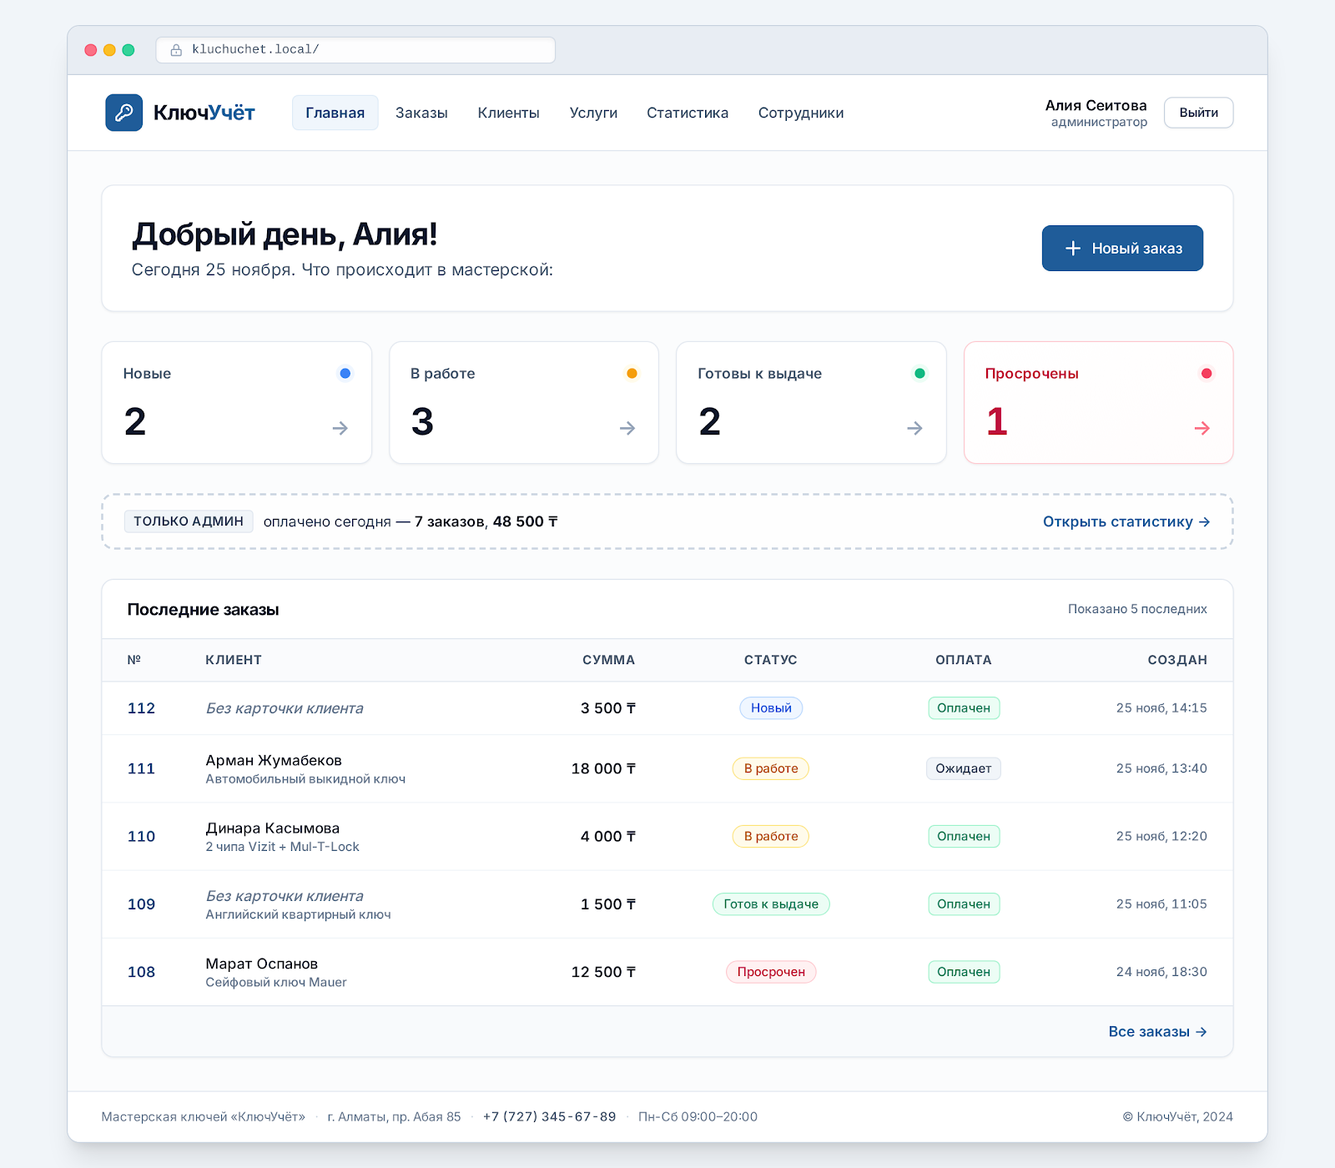
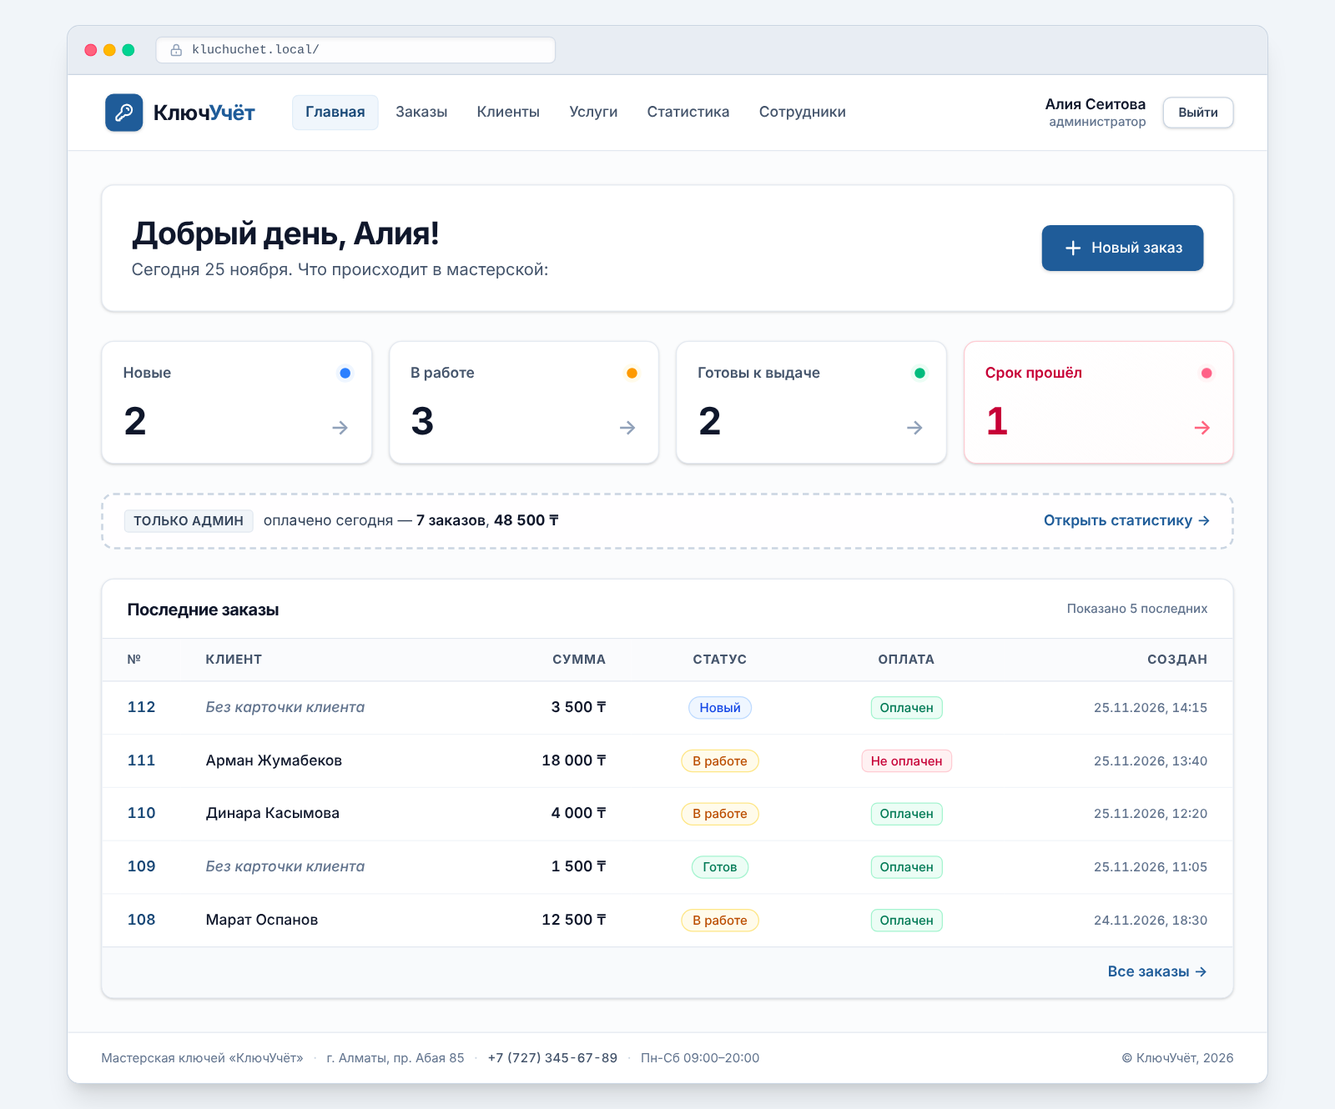
design: fix screens per checklist, add rework API and screen
- screens: "Просрочен" is not a status (mark "срок прошёл" + counter), payment only Оплачен/Не оплачен, due date is date only, one date format and 2026 year, no extra metrics or English text
- add screen and wireframe 06 (rework dialog) and button on order card
- architecture.md: POST /api/orders/:id/rework, US-16
- design.md, README updated

Claude-Session: https://claude.ai/code/session_01LYx9XDw7J7b9mwqPre7aFx

diff --git a/docs/architecture.md b/docs/architecture.md
@@ -139,6 +139,7 @@
 | `US-13` | Администратор | Как администратор, я хочу видеть количество заказов, выручку и статусы за период, чтобы контролировать работу мастерской. | ✅ |
 | `US-14` | Администратор | Как администратор, я хочу учитывать заготовки ключей, чтобы знать остатки материалов. | ⏳ |
 | `US-15` | Сотрудник | Как сотрудник, я хочу уведомлять клиента о готовом заказе, чтобы ускорить выдачу. | ⏳ |
+| `US-16` | Сотрудник | Как сотрудник, я хочу оформить переделку по готовому или выданному заказу, чтобы бесплатно исправить работу, не меняя старый заказ. | ✅ |
 
 **Почему так:** истории имеют ID, поэтому можно связать каждый API-запрос и страницу с конкретной задачей, а затем проверять готовность диплома по списку, а не «на глаз».
 
@@ -205,7 +206,7 @@ stateDiagram-v2
 | `BR-22` | Даты, статус, оплату, цену и доступность услуги сервер проверяет непосредственно при записи, в транзакции. | Между открытием формы и сохранением другой сотрудник мог изменить данные. |
 | `BR-23` | `dueDate` — необязательный срок готовности. Если срок указан и текущая дата мастерской позже даты `dueDate`, а заказ ещё не `ISSUED`/`CANCELLED`, интерфейс отмечает заказ как просроченный. | Сотрудник сразу видит заказы, срок которых прошёл. |
 | `BR-24` | `assigneeId` — необязательный исполнитель заказа (ссылка на активного сотрудника). `createdById` остаётся автором оформления и не заменяет исполнителя. Если мастер в мастерской один, исполнителя можно не указывать. | Видно, кто принял заказ и кто отвечает за выполнение. |
-| `BR-25` | Переделка оформляется отдельным новым заказом с `totalAmount=0`, нулевой ценой позиций и комментарием `Переделка по заказу №…`. Исходный заказ не изменяется. | Сохраняется история первоначального заказа и бесплатной переделки. |
+| `BR-25` | Переделка оформляется отдельным новым заказом с `totalAmount=0`, нулевой ценой позиций и комментарием `Переделка по заказу №…`. Оформить её можно по заказу в статусе `READY` или `ISSUED`; оплата нового заказа сразу `PAID`, так как сумма равна 0. Исходный заказ не изменяется. | Сохраняется история первоначального заказа и бесплатной переделки. |
 | `BR-26` | Отменить заказ из `READY` может только `ADMIN`; причина отмены обязательна и сохраняется в событии журнала. Заказы в `NEW` и `IN_PROGRESS` отменяются сотрудником или администратором по обычным правилам. | Готовая работа и потраченная заготовка не списываются без контроля администратора. |
 
 **Правило быстрого заказа:** `clientId=null` — полностью корректное значение. Заказ без карточки клиента участвует в списке, статусах, журнале и статистике. Интерфейс показывает «Без карточки клиента», а не выдумывает имя или телефон. Поиск по данным клиента для него недоступен, пока сотрудник не привяжет клиента.
@@ -497,6 +498,7 @@ erDiagram
 | `GET` | `/api/orders/:id` | Карточка заказа | Оба | US-08 |
 | `PATCH` | `/api/orders/:id` | Исправить состав/клиента допустимого заказа | Оба | US-09 |
 | `POST` | `/api/orders/:id/status` | Перевести заказ в следующий разрешённый статус | Оба | US-10 |
+| `POST` | `/api/orders/:id/rework` | Оформить переделку отдельным заказом | Оба | US-16 |
 | `POST` | `/api/orders/:id/payment` | Отметить оплату/разрешённое исправление | С, А* | US-12 |
 | `GET` | `/api/orders/:id/events` | История действий с заказом | Оба | US-11 |
 | `GET` | `/api/stats/overview` | Количество заказов, выручка, разбивка по статусам | А | US-13 |
@@ -525,7 +527,7 @@ erDiagram
 | `401 Unauthorized` | Нет действительного входа |
 | `403 Forbidden` | Вошёл, но роль не имеет права на действие |
 | `404 Not Found` | Запись отсутствует |
-| `409 Conflict` | Повтор логина, запрещённый переход, попытка выдать неоплаченный заказ, изменение уже оплаченного заказа |
+| `409 Conflict` | Повтор логина, запрещённый переход, попытка выдать неоплаченный заказ, изменение уже оплаченного заказа, переделка не по готовому/выданному заказу |
 | `429 Too Many Requests` | Слишком много попыток входа |
 | `500 Internal Server Error` | Непредвиденная ошибка; детали скрыты от клиента |
 
@@ -737,9 +739,28 @@ erDiagram
 
 **Отмена готового заказа:** `POST /api/orders/105/status` с телом `{"status":"CANCELLED","reason":"Клиент отказался от заказа"}`. Запрос доступен только администратору; без причины сервер возвращает `400`, сотруднику — `403`. Причина сохраняется в `Order.cancelReason` и `OrderEvent.comment`.
 
-**Переделка:** `POST /api/orders/105/rework` создаёт отдельный заказ на основе исходного. Сервер копирует позиции исходного заказа, устанавливает каждой `unitPriceSnapshot=0`, `totalAmount=0` и сохраняет комментарий `Переделка по заказу № 105`. Для такого заказа сервер не использует обычные цены каталога. Исходный заказ остаётся без изменений.
+**18) `POST /api/orders/105/rework`** — US-16, оба. Запрос (заказ № 105 в статусе `READY`; причина необязательна):
 
-**18) `POST /api/orders/105/payment`** — US-12, С/А. Запрос (заказ в работе):
+```json
+{"reason":"Ключ не подошёл к замку, нужно подточить"}
+```
+
+Ответ `201`:
+
+```json
+{"id":106,"status":"NEW","paymentStatus":"PAID","totalAmount":0,"comment":"Переделка по заказу № 105: Ключ не подошёл к замку, нужно подточить"}
+```
+
+Сервер копирует позиции заказа № 105, ставит каждой `unitPriceSnapshot=0` и `totalAmount=0` (BR-08, BR-25). Новый заказ создаётся со статусом `NEW` и тем же клиентом, срок и исполнитель не заполняются. Платить нечего, поэтому оплата сразу `PAID`, и такой заказ можно выдать без отдельной отметки; выручка не меняется, так как сумма равна 0. Исходный заказ № 105 не изменяется, в его историю добавляется запись о переделке № 106. Если причина не указана, комментарий будет `Переделка по заказу № 105`.
+
+Ошибки: `404`, если заказа нет; `409` с кодом `REWORK_NOT_ALLOWED`, если исходный заказ не в статусе `READY` или `ISSUED` (в `NEW`, `IN_PROGRESS` и `CANCELLED` переделывать нечего):
+
+```json
+{"error":{"code":"REWORK_NOT_ALLOWED","message":"Переделку можно оформить только по готовому или выданному заказу"}}
+```
+
+
+**19) `POST /api/orders/105/payment`** — US-12, С/А. Запрос (заказ в работе):
 
 ```json
 {"paymentStatus":"PAID"}
@@ -755,7 +776,7 @@ erDiagram
 
 **Проверка выдачи:** даже у заказа в `READY` запрос `POST /api/orders/105/status` с `{"status":"ISSUED"}` возвращает `409` и `{"error":{"code":"ORDER_NOT_PAID","message":"Нельзя выдать заказ без оплаты"}}`, пока `paymentStatus=UNPAID`. После отметки `PAID` переход разрешён.
 
-**19) `GET /api/orders/105/events`** — US-11, оба. Запрос: без тела. Ответ `200` (новые события в хронологическом порядке):
+**20) `GET /api/orders/105/events`** — US-11, оба. Запрос: без тела. Ответ `200` (новые события в хронологическом порядке):
 
 ```json
 {"items":[{"id":901,"type":"CREATED","oldValue":null,"newValue":"NEW","actorId":2,"createdAt":"2026-11-17T09:30:00Z"},{"id":902,"type":"ORDER_UPDATED","oldValue":null,"newValue":null,"actorId":2,"comment":"Изменены позиции заказа","createdAt":"2026-11-17T10:00:00Z"},{"id":903,"type":"STATUS_CHANGED","oldValue":"NEW","newValue":"IN_PROGRESS","actorId":2,"createdAt":"2026-11-17T10:30:00Z"},{"id":904,"type":"PAYMENT_CHANGED","oldValue":"UNPAID","newValue":"PAID","actorId":2,"createdAt":"2026-11-17T11:15:00Z"}]}
@@ -763,7 +784,7 @@ erDiagram
 
 #### Статистика
 
-**20) `GET /api/stats/overview`** — US-13, А. Запрос: `GET /api/stats/overview?from=2026-11-01&to=2026-11-30`. Ответ `200`:
+**21) `GET /api/stats/overview`** — US-13, А. Запрос: `GET /api/stats/overview?from=2026-11-01&to=2026-11-30`. Ответ `200`:
 
 ```json
 {"period":{"from":"2026-11-01","to":"2026-11-30","timezone":"Asia/Almaty"},"ordersCreated":32,"paidOrders":24,"revenuePaid":76000,"byStatus":{"NEW":4,"IN_PROGRESS":5,"READY":7,"ISSUED":14,"CANCELLED":2}}
@@ -794,7 +815,7 @@ erDiagram
 | `/` | Оба | Рабочая сводка: новые, в работе, готовы; для А — переход к финансовой статистике | Перейти в заказы, создать заказ | `/orders`, `/orders/new`, `/stats` (А) |
 | `/orders` | Оба | Таблица заказов: №, клиент или «Без карточки клиента», сумма, статус, оплата, дата | Искать, фильтровать, открыть, создать | `/orders/new`, `/orders/:id` |
 | `/orders/new` | Оба | Выбор клиента **или режим «Быстрый заказ без клиента»**, каталог услуг, количество, предварительный итог | Создать заказ с `clientId` или без него | `/clients`, `/orders/:id` |
-| `/orders/:id` | Оба | Клиент **или его отсутствие**, позиции, сумма, статус, оплата, автор, история | Сменить статус; **кнопка «Выдать» активна только после оплаты**; открыть редактирование | `/orders/:id/edit`, `/clients/:id` (если есть клиент), `/orders` |
+| `/orders/:id` | Оба | Клиент **или его отсутствие**, позиции, сумма, статус, оплата, автор, история | Сменить статус; **кнопка «Выдать» активна только после оплаты**; открыть редактирование; **«Оформить переделку»** (окно подтверждения поверх карточки) | `/orders/:id/edit`, `/clients/:id` (если есть клиент), `/orders` |
 | `/orders/:id/edit` | Оба, при `BR-10` | Необязательная привязка клиента и позиции с зафиксированными ценами | Исправить заказ, сохранить | `/orders/:id` |
 | `/clients` | Оба | Список клиентов, имя, телефон; форма добавления | Создать/найти клиента | `/clients/:id`, `/orders/new` |
 | `/clients/:id` | Оба | Имя, телефон, история заказов (с переходами и пагинацией) | Изменить контактные данные, открыть заказ | `/orders/:id`, `/clients` |

diff --git a/docs/design.md b/docs/design.md
@@ -20,7 +20,7 @@
 
 ## 2. Страницы
 
-Сделаны 5 главных страниц. Каркасы лежат в `docs/wireframes/`, готовые экраны — в `docs/screens/`.
+Сделаны 5 главных страниц и окно переделки (06). Каркасы лежат в `docs/wireframes/`, готовые экраны — в `docs/screens/`.
 
 | № | Страница | Путь | Главная кнопка | Куда ведёт |
 |---|---|---|---|---|
@@ -29,6 +29,7 @@
 | 03 | Новый заказ | `/orders/new` | «Создать заказ» | `/orders/:id` |
 | 04 | Карточка заказа | `/orders/:id` | «Отметить оплату» (или следующий статус) | та же страница |
 | 05 | Статистика (только администратор) | `/stats` | «Показать» | та же страница |
+| 06 | Переделка (окно на карточке заказа) | `/orders/:id` | «Создать переделку» | карточка нового заказа |
 
 Страница входа, клиенты, услуги и сотрудники делаются по этим же правилам.
 
@@ -68,7 +69,7 @@
 | `PAID` | ✓ Оплачен | `#1E7A3C` |
 | `UNPAID` | ○ Не оплачен | `#B42318` |
 
-Просроченный срок готовности (`dueDate` прошёл, заказ не выдан и не отменён) пишется красным `#B42318` с текстом «просрочен».
+«Просрочен» — **не статус**. Если срок готовности (`dueDate`) прошёл, а заказ не выдан и не отменён, в таблице заказов дата пишется красным `#B42318` с пометкой «срок прошёл», а на главной такие заказы считает карточка «Срок прошёл». Статус заказа при этом остаётся прежним. У оплаты только два значения: «Оплачен» и «Не оплачен», значения «Ожидает» нет. Срок готовности — только дата, без времени.
 
 ## 4. Шрифты
 

diff --git a/README.md b/README.md
@@ -47,8 +47,8 @@ key-workshop-system/
 ├── docs/
 │   ├── architecture.md
 │   ├── design.md               # правила дизайна
-│   ├── wireframes/             # каркасы страниц 01–05
-│   └── screens/                # готовые экраны 01–05
+│   ├── wireframes/             # каркасы страниц 01–06
+│   └── screens/                # готовые экраны 01–06
 ├── client/                     # React + Vite (разработка впереди)
 └── server/
     └── .env.example           # пример настроек без секретов
